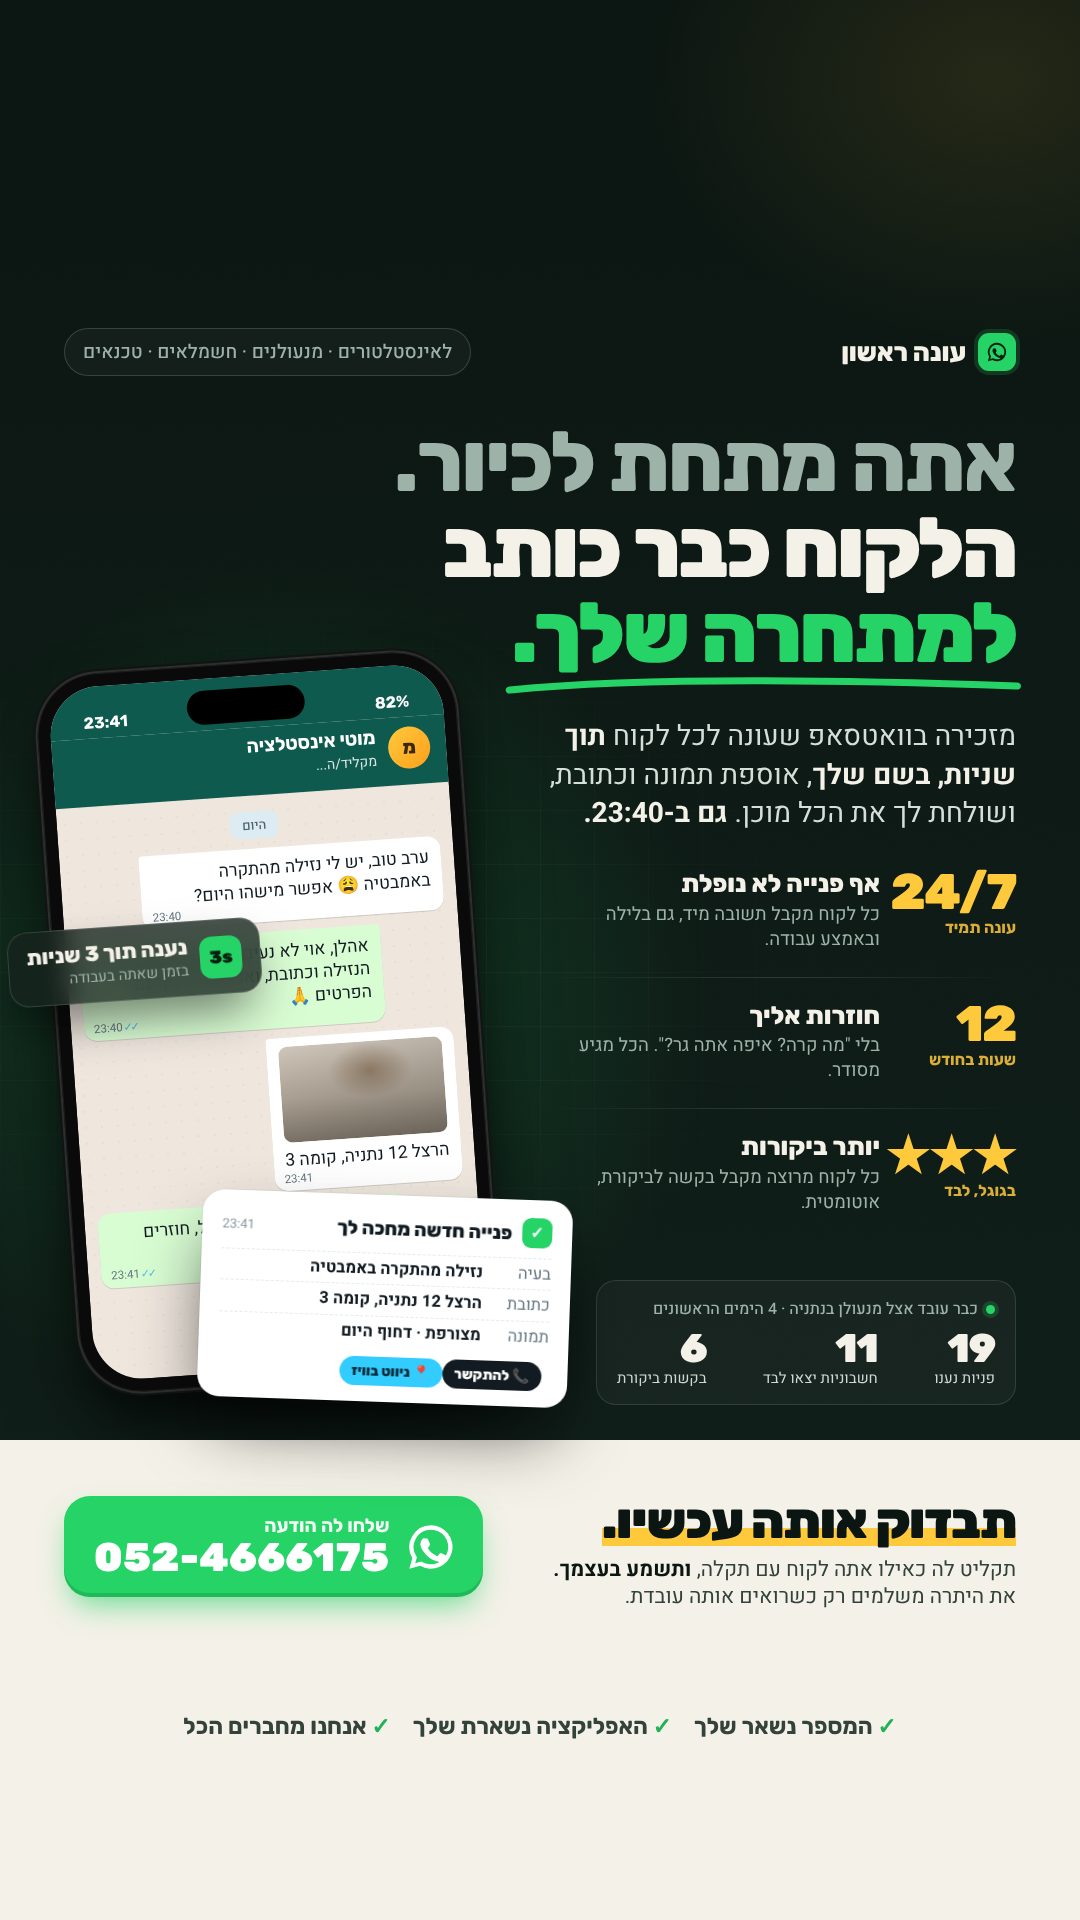
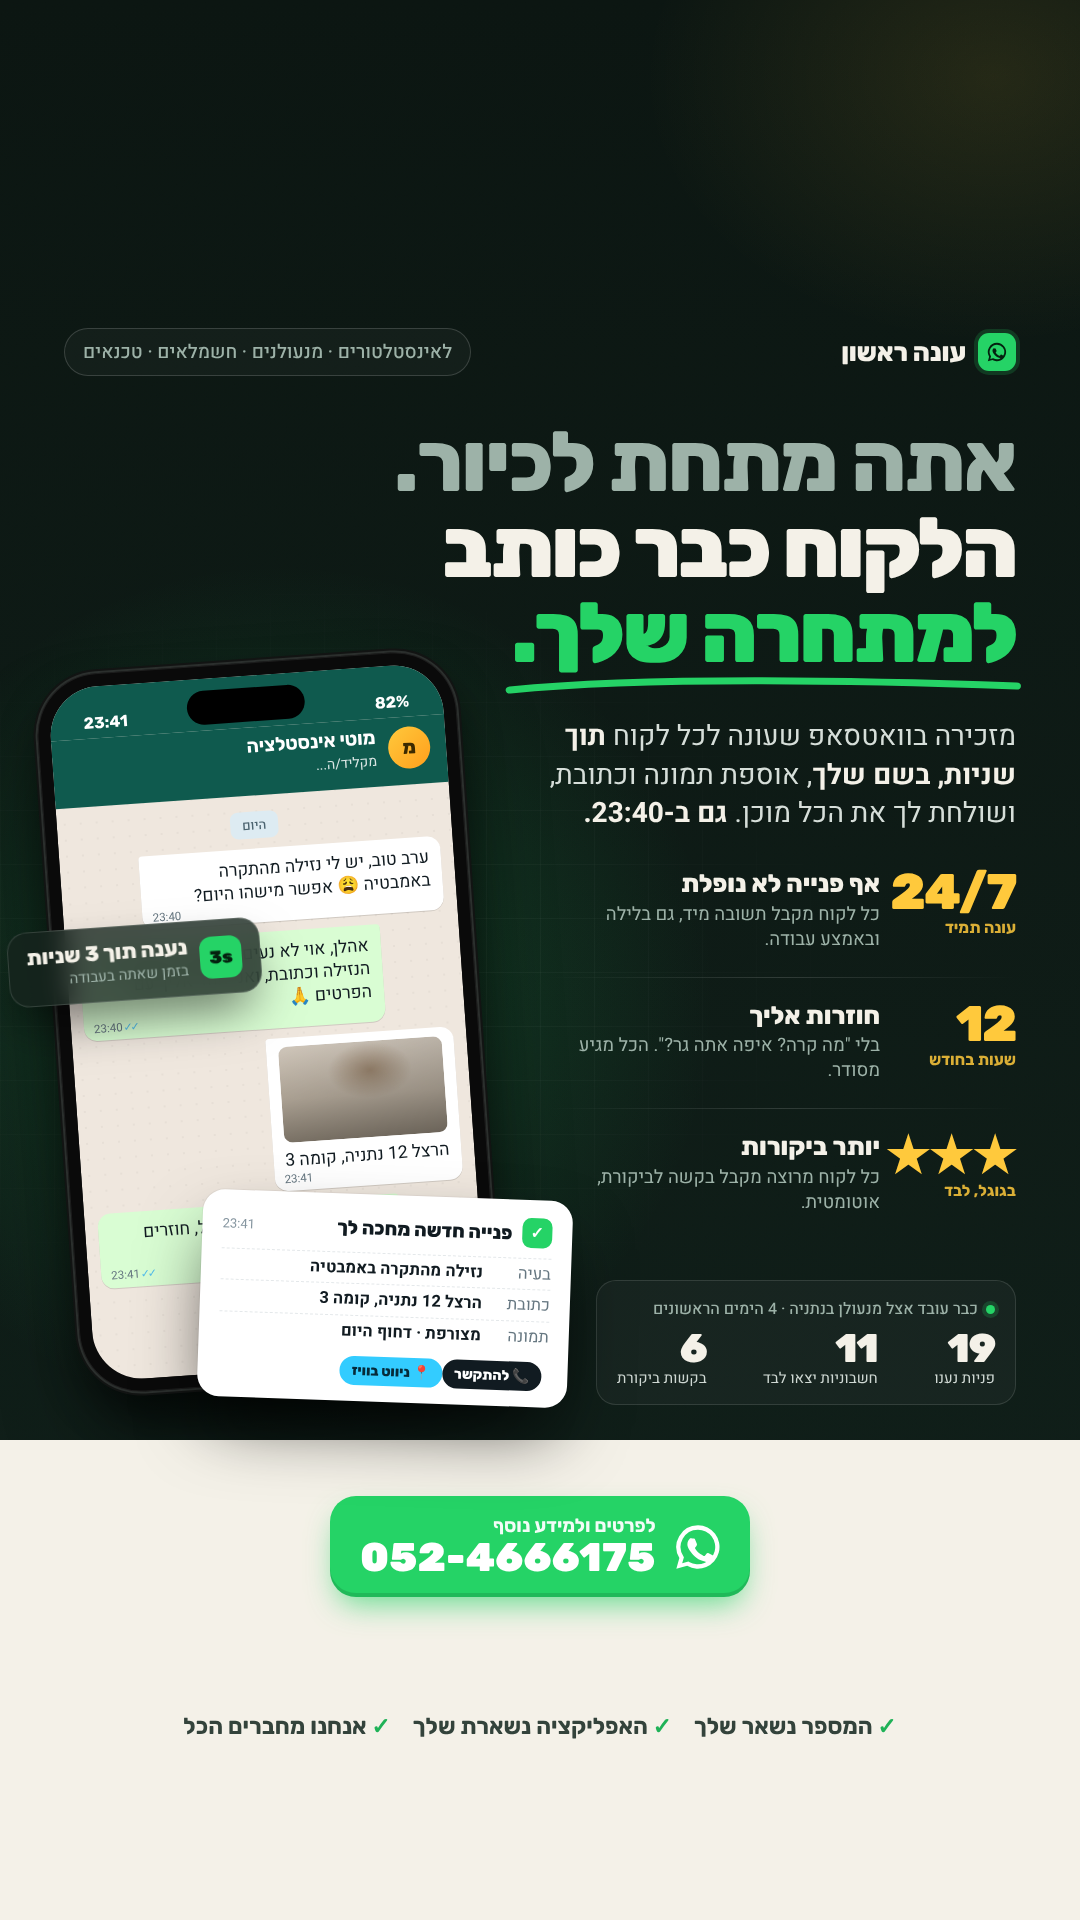
Ads: plain 'for details' call-to-action with Ariel's number
Claude-Session: https://claude.ai/code/session_01ASRMwiCmV7VLN1LwrbbDK1

Changed region(s): [[0.0306, 0.7812, 0.9472, 0.8438]]

diff --git a/automation-agency/marketing/facebook-ads/ad-story.html b/automation-agency/marketing/facebook-ads/ad-story.html
@@ -111,6 +111,7 @@ h1 .mark svg{position:absolute;right:-6px;left:-6px;bottom:-14px;width:calc(100%
 .stage{position:absolute;top:270px;left:0;width:1080px;height:1350px;z-index:2}
 .cta{height:500px;bottom:-320px;align-items:flex-start;padding-top:56px}
 .hint{position:absolute;left:64px;right:64px;bottom:-120px;display:flex;justify-content:center;gap:22px;font-family:Rubik;font-weight:700;font-size:23px;color:#33433b;z-index:3}.hint span:before{content:"✓ ";color:#1FB257}
+.cta{justify-content:center}
 </style></head><body><div class="stage">
 
 <div class="top z">
@@ -167,13 +168,9 @@ h1 .mark svg{position:absolute;right:-6px;left:-6px;bottom:-14px;width:calc(100%
 
 <!-- CTA -->
 <div class="cta z">
-  <div class="offer">
-    <div class="k"><u>תבדוק אותה עכשיו.</u></div>
-    <p>תקליט לה כאילו אתה לקוח עם תקלה, <b>ותשמע בעצמך.</b><br>את היתרה משלמים רק כשרואים אותה עובדת.</p>
-  </div>
   <div class="btn">
     <svg viewBox="0 0 24 24" fill="#fff"><path d="M12 2a10 10 0 0 0-8.6 15.1L2 22l5-1.3A10 10 0 1 0 12 2zm0 2a8 8 0 1 1-4.1 14.9l-.3-.2-2.9.8.8-2.8-.2-.3A8 8 0 0 1 12 4zm-3.2 4c-.2 0-.5 0-.7.3-.3.3-1 1-1 2.4s1 2.8 1.2 3c.1.2 2 3.2 5 4.4 2.5 1 3 .8 3.5.7.6 0 1.8-.7 2-1.4.3-.7.3-1.3.2-1.4l-.5-.3-1.8-.9c-.3-.1-.5-.1-.7.2l-.8 1c-.2.2-.3.2-.6.1-.3-.2-1.2-.5-2.3-1.4-.9-.8-1.4-1.7-1.6-2-.2-.3 0-.4.1-.6l.4-.5.3-.5v-.5l-.8-2c-.2-.5-.4-.5-.6-.5h-.5z"/></svg>
-    <div><small>שלחו לה הודעה</small><b>__PHONE__</b></div>
+    <div><small>לפרטים ולמידע נוסף</small><b>__PHONE__</b></div>
   </div>
 </div>
 

diff --git a/automation-agency/marketing/ad-tradesmen.html b/automation-agency/marketing/ad-tradesmen.html
@@ -108,6 +108,7 @@ h1 .mark svg{position:absolute;right:-6px;left:-6px;bottom:-14px;width:calc(100%
 .btn svg{width:52px;height:52px;flex:none}
 .btn small{display:block;font-family:Rubik;font-weight:700;font-size:19px;opacity:.95}
 .btn b{display:block;font-family:Rubik;font-weight:900;font-size:40px;direction:ltr;letter-spacing:.5px;line-height:1.05}
+.cta{justify-content:center}
 </style></head><body>
 
 <div class="top z">
@@ -164,13 +165,9 @@ h1 .mark svg{position:absolute;right:-6px;left:-6px;bottom:-14px;width:calc(100%
 
 <!-- CTA -->
 <div class="cta z">
-  <div class="offer">
-    <div class="k"><u>תבדוק אותה עכשיו.</u></div>
-    <p>תקליט לה כאילו אתה לקוח עם תקלה, <b>ותשמע בעצמך.</b><br>את היתרה משלמים רק כשרואים אותה עובדת.</p>
-  </div>
   <div class="btn">
     <svg viewBox="0 0 24 24" fill="#fff"><path d="M12 2a10 10 0 0 0-8.6 15.1L2 22l5-1.3A10 10 0 1 0 12 2zm0 2a8 8 0 1 1-4.1 14.9l-.3-.2-2.9.8.8-2.8-.2-.3A8 8 0 0 1 12 4zm-3.2 4c-.2 0-.5 0-.7.3-.3.3-1 1-1 2.4s1 2.8 1.2 3c.1.2 2 3.2 5 4.4 2.5 1 3 .8 3.5.7.6 0 1.8-.7 2-1.4.3-.7.3-1.3.2-1.4l-.5-.3-1.8-.9c-.3-.1-.5-.1-.7.2l-.8 1c-.2.2-.3.2-.6.1-.3-.2-1.2-.5-2.3-1.4-.9-.8-1.4-1.7-1.6-2-.2-.3 0-.4.1-.6l.4-.5.3-.5v-.5l-.8-2c-.2-.5-.4-.5-.6-.5h-.5z"/></svg>
-    <div><small>שלחו לה הודעה</small><b>__PHONE__</b></div>
+    <div><small>לפרטים ולמידע נוסף</small><b>__PHONE__</b></div>
   </div>
 </div>
 </body></html>

diff --git a/automation-agency/marketing/facebook-ads/ad-square.html b/automation-agency/marketing/facebook-ads/ad-square.html
@@ -125,6 +125,7 @@ h1 .mark svg{bottom:-12px;height:18px}
 .btn{padding:14px 22px 14px 24px}
 .btn b{font-size:34px}
 .btn svg{width:44px;height:44px}
+.cta{justify-content:center}
 </style></head><body>
 
 <div class="top z">
@@ -169,13 +170,9 @@ h1 .mark svg{bottom:-12px;height:18px}
 
 <!-- CTA -->
 <div class="cta z">
-  <div class="offer">
-    <div class="k"><u>תבדוק אותה עכשיו.</u></div>
-    <p>תקליט לה כאילו אתה לקוח עם תקלה, <b>ותשמע בעצמך.</b><br>את היתרה משלמים רק כשרואים אותה עובדת.</p>
-  </div>
   <div class="btn">
     <svg viewBox="0 0 24 24" fill="#fff"><path d="M12 2a10 10 0 0 0-8.6 15.1L2 22l5-1.3A10 10 0 1 0 12 2zm0 2a8 8 0 1 1-4.1 14.9l-.3-.2-2.9.8.8-2.8-.2-.3A8 8 0 0 1 12 4zm-3.2 4c-.2 0-.5 0-.7.3-.3.3-1 1-1 2.4s1 2.8 1.2 3c.1.2 2 3.2 5 4.4 2.5 1 3 .8 3.5.7.6 0 1.8-.7 2-1.4.3-.7.3-1.3.2-1.4l-.5-.3-1.8-.9c-.3-.1-.5-.1-.7.2l-.8 1c-.2.2-.3.2-.6.1-.3-.2-1.2-.5-2.3-1.4-.9-.8-1.4-1.7-1.6-2-.2-.3 0-.4.1-.6l.4-.5.3-.5v-.5l-.8-2c-.2-.5-.4-.5-.6-.5h-.5z"/></svg>
-    <div><small>שלחו לה הודעה</small><b>__PHONE__</b></div>
+    <div><small>לפרטים ולמידע נוסף</small><b>__PHONE__</b></div>
   </div>
 </div>
 
